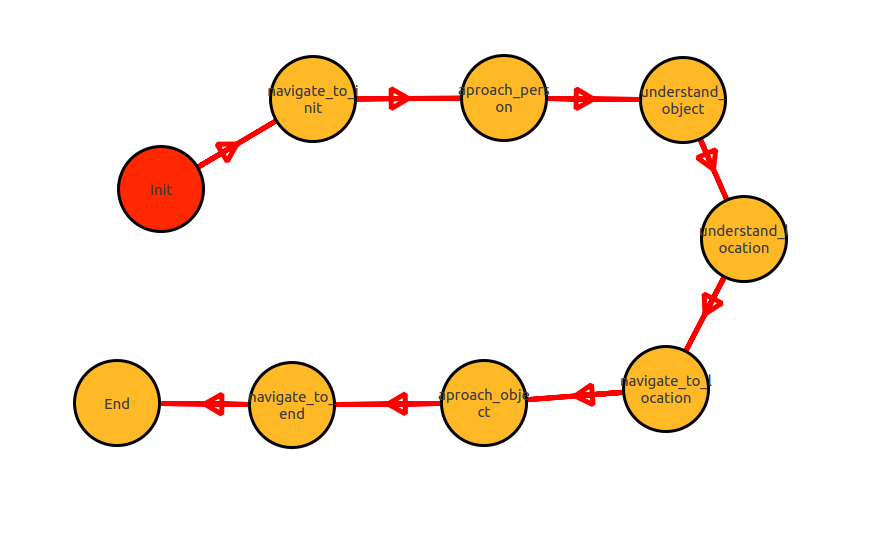
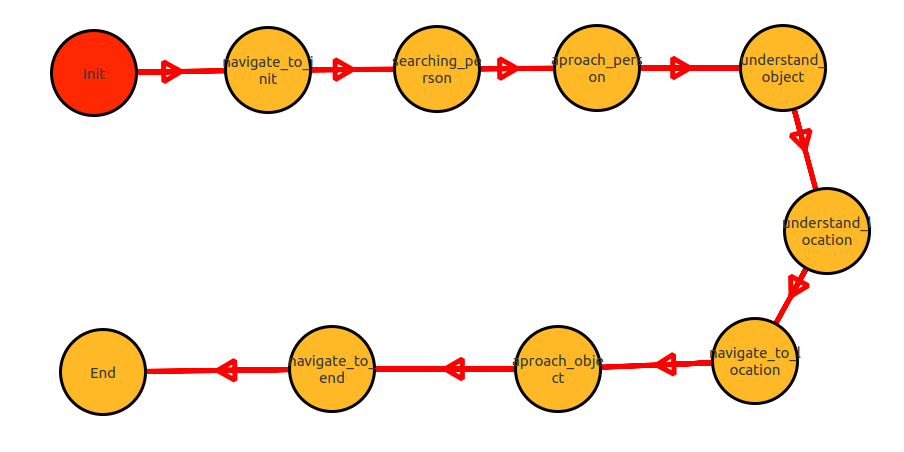
Add searching_person state to restaurant

Changed region(s): [[0.0304, 0.031, 0.973, 0.9292]]

diff --git a/restaurant/src/restaurant_HFSM.h b/restaurant/src/restaurant_HFSM.h
@@ -57,31 +57,34 @@ public:
 
   	virtual void understand_object_code_iterative() {};
 	virtual void understand_object_code_once() {};
-	virtual void aproach_object_code_iterative() {};
-	virtual void aproach_object_code_once() {};
-	virtual void navigate_to_location_code_iterative() {};
-	virtual void navigate_to_location_code_once() {};
-	virtual void understand_location_code_iterative() {};
-	virtual void understand_location_code_once() {};
-	virtual void Init_code_iterative() {};
-	virtual void Init_code_once() {};
-	virtual void navigate_to_init_code_iterative() {};
-	virtual void navigate_to_init_code_once() {};
 	virtual void End_code_iterative() {};
 	virtual void End_code_once() {};
+	virtual void aproach_object_code_iterative() {};
+	virtual void aproach_object_code_once() {};
+	virtual void understand_location_code_iterative() {};
+	virtual void understand_location_code_once() {};
+	virtual void navigate_to_init_code_iterative() {};
+	virtual void navigate_to_init_code_once() {};
 	virtual void aproach_person_code_iterative() {};
 	virtual void aproach_person_code_once() {};
 	virtual void navigate_to_end_code_iterative() {};
 	virtual void navigate_to_end_code_once() {};
+	virtual void searching_person_code_iterative() {};
+	virtual void searching_person_code_once() {};
+	virtual void navigate_to_location_code_iterative() {};
+	virtual void navigate_to_location_code_once() {};
+	virtual void Init_code_iterative() {};
+	virtual void Init_code_once() {};
 
-  	virtual bool Init_2_navigate_to_init() {return false;};
-	virtual bool navigate_to_location_2_aproach_object() {return false;};
-	virtual bool navigate_to_init_2_aproach_person() {return false;};
+  	virtual bool navigate_to_location_2_aproach_object() {return false;};
 	virtual bool understand_location_2_navigate_to_location() {return false;};
-	virtual bool understand_object_2_understand_location() {return false;};
-	virtual bool navigate_to_end_2_End() {return false;};
+	virtual bool searching_person_2_aproach_person() {return false;};
+	virtual bool Init_2_navigate_to_init() {return false;};
 	virtual bool aproach_person_2_understand_object() {return false;};
 	virtual bool aproach_object_2_navigate_to_end() {return false;};
+	virtual bool navigate_to_init_2_searching_person() {return false;};
+	virtual bool navigate_to_end_2_End() {return false;};
+	virtual bool understand_object_2_understand_location() {return false;};
 
 
   bool ok();
@@ -94,25 +97,27 @@ private:
 
   	void deactivateAllDeps();
 	void understand_object_activateDeps();
-	void aproach_object_activateDeps();
-	void navigate_to_location_activateDeps();
-	void understand_location_activateDeps();
-	void Init_activateDeps();
-	void navigate_to_init_activateDeps();
 	void End_activateDeps();
+	void aproach_object_activateDeps();
+	void understand_location_activateDeps();
+	void navigate_to_init_activateDeps();
 	void aproach_person_activateDeps();
 	void navigate_to_end_activateDeps();
+	void searching_person_activateDeps();
+	void navigate_to_location_activateDeps();
+	void Init_activateDeps();
 
 
   	static const int UNDERSTAND_OBJECT = 0;
-	static const int APROACH_OBJECT = 1;
-	static const int NAVIGATE_TO_LOCATION = 2;
+	static const int END = 1;
+	static const int APROACH_OBJECT = 2;
 	static const int UNDERSTAND_LOCATION = 3;
-	static const int INIT = 4;
-	static const int NAVIGATE_TO_INIT = 5;
-	static const int END = 6;
-	static const int APROACH_PERSON = 7;
-	static const int NAVIGATE_TO_END = 8;
+	static const int NAVIGATE_TO_INIT = 4;
+	static const int APROACH_PERSON = 5;
+	static const int NAVIGATE_TO_END = 6;
+	static const int SEARCHING_PERSON = 7;
+	static const int NAVIGATE_TO_LOCATION = 8;
+	static const int INIT = 9;
 
 
   int state_;

diff --git a/restaurant/src/restaurant_HFSM.cpp b/restaurant/src/restaurant_HFSM.cpp
@@ -89,6 +89,14 @@ bool restaurant_HFSM::ok()
 	state_pub_.publish(msg);
 	break;
 
+	case END:
+
+	End_code_iterative();
+
+	msg.data = "End";
+	state_pub_.publish(msg);
+	break;
+
 	case APROACH_OBJECT:
 
 	aproach_object_code_iterative();
@@ -104,25 +112,6 @@ bool restaurant_HFSM::ok()
 
 	navigate_to_end_activateDeps();
 	navigate_to_end_code_once();
-	}
-	state_pub_.publish(msg);
-	break;
-
-	case NAVIGATE_TO_LOCATION:
-
-	navigate_to_location_code_iterative();
-
-	msg.data = "navigate_to_location";
-	if(navigate_to_location_2_aproach_object())
-	{
-
-	deactivateAllDeps();
-
-	state_ = APROACH_OBJECT;
-	state_ts_ = ros::Time::now();
-
-	aproach_object_activateDeps();
-	aproach_object_code_once();
 	}
 	state_pub_.publish(msg);
 	break;
@@ -146,49 +135,22 @@ bool restaurant_HFSM::ok()
 	state_pub_.publish(msg);
 	break;
 
-	case INIT:
-
-	Init_code_iterative();
-
-	msg.data = "Init";
-	if(Init_2_navigate_to_init())
-	{
-
-	deactivateAllDeps();
-
-	state_ = NAVIGATE_TO_INIT;
-	state_ts_ = ros::Time::now();
-
-	navigate_to_init_activateDeps();
-	navigate_to_init_code_once();
-	}
-	state_pub_.publish(msg);
-	break;
-
 	case NAVIGATE_TO_INIT:
 
 	navigate_to_init_code_iterative();
 
 	msg.data = "navigate_to_init";
-	if(navigate_to_init_2_aproach_person())
+	if(navigate_to_init_2_searching_person())
 	{
 
 	deactivateAllDeps();
 
-	state_ = APROACH_PERSON;
+	state_ = SEARCHING_PERSON;
 	state_ts_ = ros::Time::now();
 
-	aproach_person_activateDeps();
-	aproach_person_code_once();
+	searching_person_activateDeps();
+	searching_person_code_once();
 	}
-	state_pub_.publish(msg);
-	break;
-
-	case END:
-
-	End_code_iterative();
-
-	msg.data = "End";
 	state_pub_.publish(msg);
 	break;
 
@@ -230,6 +192,63 @@ bool restaurant_HFSM::ok()
 	state_pub_.publish(msg);
 	break;
 
+	case SEARCHING_PERSON:
+
+	searching_person_code_iterative();
+
+	msg.data = "searching_person";
+	if(searching_person_2_aproach_person())
+	{
+
+	deactivateAllDeps();
+
+	state_ = APROACH_PERSON;
+	state_ts_ = ros::Time::now();
+
+	aproach_person_activateDeps();
+	aproach_person_code_once();
+	}
+	state_pub_.publish(msg);
+	break;
+
+	case NAVIGATE_TO_LOCATION:
+
+	navigate_to_location_code_iterative();
+
+	msg.data = "navigate_to_location";
+	if(navigate_to_location_2_aproach_object())
+	{
+
+	deactivateAllDeps();
+
+	state_ = APROACH_OBJECT;
+	state_ts_ = ros::Time::now();
+
+	aproach_object_activateDeps();
+	aproach_object_code_once();
+	}
+	state_pub_.publish(msg);
+	break;
+
+	case INIT:
+
+	Init_code_iterative();
+
+	msg.data = "Init";
+	if(Init_2_navigate_to_init())
+	{
+
+	deactivateAllDeps();
+
+	state_ = NAVIGATE_TO_INIT;
+	state_ts_ = ros::Time::now();
+
+	navigate_to_init_activateDeps();
+	navigate_to_init_code_once();
+	}
+	state_pub_.publish(msg);
+	break;
+
 
     }
   }
@@ -248,12 +267,12 @@ restaurant_HFSM::understand_object_activateDeps()
 }
 
 void
-restaurant_HFSM::aproach_object_activateDeps()
+restaurant_HFSM::End_activateDeps()
 {
 }
 
 void
-restaurant_HFSM::navigate_to_location_activateDeps()
+restaurant_HFSM::aproach_object_activateDeps()
 {
 }
 
@@ -263,17 +282,7 @@ restaurant_HFSM::understand_location_activateDeps()
 }
 
 void
-restaurant_HFSM::Init_activateDeps()
-{
-}
-
-void
 restaurant_HFSM::navigate_to_init_activateDeps()
-{
-}
-
-void
-restaurant_HFSM::End_activateDeps()
 {
 }
 
@@ -284,6 +293,21 @@ restaurant_HFSM::aproach_person_activateDeps()
 
 void
 restaurant_HFSM::navigate_to_end_activateDeps()
+{
+}
+
+void
+restaurant_HFSM::searching_person_activateDeps()
+{
+}
+
+void
+restaurant_HFSM::navigate_to_location_activateDeps()
+{
+}
+
+void
+restaurant_HFSM::Init_activateDeps()
 {
 }
 

diff --git a/restaurant/src/restaurant_executor.h b/restaurant/src/restaurant_executor.h
@@ -68,16 +68,20 @@ public:
 	//void navigate_to_location_code_once();
 	//void aproach_object_code_iterative();
 	//void aproach_object_code_once();
+  //void searching_person_code_iterative();
+	//void searching_person_code_once();
 	void aproach_person_code_iterative();
 	void aproach_person_code_once();
 
-  bool navigate_to_init_2_aproach_person();
 	//bool navigate_to_location_2_aproach_object();
 	//bool understand_object_2_understand_location();
 	bool aproach_person_2_understand_object();
 	//bool aproach_object_2_navigate_to_end();
 	bool Init_2_navigate_to_init();
 	//bool understand_location_2_navigate_to_location();
+	bool searching_person_2_aproach_person();
+	bool navigate_to_init_2_searching_person();
+
 
   //void End_code_iterative();
 	//void End_code_once();

diff --git a/restaurant/src/restaurant_executor.cpp b/restaurant/src/restaurant_executor.cpp
@@ -92,16 +92,20 @@ bool restaurant_executor::Init_2_navigate_to_init()
   return true;
 }
 
-bool restaurant_executor::navigate_to_init_2_aproach_person()
+bool restaurant_executor::searching_person_2_aproach_person()
+{
+  return false;
+}
+
+bool restaurant_executor::navigate_to_init_2_searching_person()
 {
   return loc_reached;
 }
 
 bool restaurant_executor::aproach_person_2_understand_object()
 {
-  
-}
 
+}
 
 void restaurant_executor::talk(std::string str)
 {
